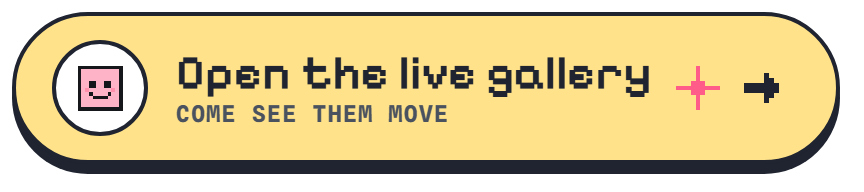
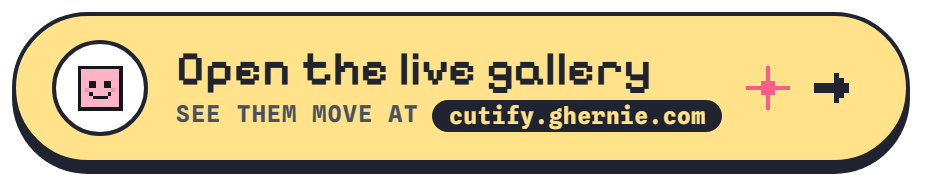
A one-card Features section after Quickstart, and the gallery address on the button and in Quickstart

diff --git a/tools/features.html b/tools/features.html
@@ -1,0 +1,69 @@
+<!doctype html>
+<html lang="en">
+<head>
+<meta charset="utf-8">
+<title>Features card</title>
+<link rel="stylesheet" href="https://fonts.googleapis.com/css2?family=Pixelify+Sans:wght@600&family=Atkinson+Hyperlegible:wght@400;700&family=Spline+Sans+Mono:wght@700&display=swap">
+<style>
+/* Rendered to docs/features.png by make_button.mjs. Six feature stickers on graph paper, then the AI tells the skill skips. */
+:root { --ink: #1f2430; --soft: #4a5260; --paper: #fbf7ee; --rule: #ece3cf; --accent: #ff5c8a; }
+html, body { margin: 0; background: transparent; }
+#shot { display: inline-block; padding: 8px 14px 18px 8px; }
+.board { width: 940px; box-sizing: border-box; padding: 26px 28px 28px; border: 2px solid var(--ink); border-radius: 24px; color: var(--ink); box-shadow: 0 6px 0 var(--ink);
+  background-color: var(--paper); background-image: linear-gradient(var(--rule) 1px, transparent 1px), linear-gradient(90deg, var(--rule) 1px, transparent 1px); background-size: 24px 24px; }
+.kicker { display: flex; align-items: center; gap: 10px; margin: 0 0 18px; font: 700 13px/1 'Spline Sans Mono', monospace; letter-spacing: .1em; text-transform: uppercase; color: var(--soft); }
+.kicker b { padding: 6px 10px 5px; border: 2px solid var(--ink); border-radius: 999px; background: #fff; color: var(--ink); }
+.grid { display: grid; grid-template-columns: repeat(3, 1fr); gap: 18px 16px; }
+.tile { display: grid; grid-template-columns: 52px 1fr; gap: 12px; align-items: center; padding: 14px 16px; border: 2px solid var(--ink); border-radius: 18px; background: var(--c); box-shadow: 0 4px 0 var(--ink); transform: rotate(var(--r)); }
+.ico { width: 52px; height: 52px; display: grid; place-items: center; border: 2px solid var(--ink); border-radius: 50%; background: #fff; }
+.tile h3 { margin: 0 0 3px; font: 600 21px/1.05 'Pixelify Sans', sans-serif; }
+.tile p { margin: 0; font: 400 15px/1.3 'Atkinson Hyperlegible', sans-serif; color: #2b3140; }
+.tells { display: grid; grid-template-columns: auto 1fr; gap: 18px; align-items: center; margin-top: 24px; padding: 16px 20px 18px; border-radius: 18px; background: var(--ink); color: var(--paper); }
+.stamp { display: grid; justify-items: center; gap: 6px; padding: 10px 14px 9px; border: 2px dashed var(--accent); border-radius: 14px; transform: rotate(-4deg); }
+.stamp span { font: 600 19px/1 'Pixelify Sans', sans-serif; color: #ffb3c7; white-space: nowrap; }
+.tells h3 { margin: 0 0 10px; font: 700 16px/1.2 'Atkinson Hyperlegible', sans-serif; }
+.pills { display: flex; flex-wrap: wrap; gap: 8px; }
+.pill { padding: 6px 12px 5px; border-radius: 999px; background: #353c50; color: #eef0f5; font: 700 13px/1 'Spline Sans Mono', monospace; text-decoration: line-through; text-decoration-color: var(--accent); text-decoration-thickness: 2px; }
+</style>
+</head>
+<body>
+<div id="shot"><div class="board">
+  <p class="kicker"><b>cutify-ui</b> what Claude gets</p>
+  <div class="grid">
+    <div class="tile" style="--c:#ffe28a;--r:-1deg"><span class="ico" data-icon="face"></span><div><h3>A pixel cast</h3><p>Characters cast from your brief</p></div></div>
+    <div class="tile" style="--c:#bfe3ff;--r:.8deg"><span class="ico" data-icon="steps"></span><div><h3>Story stages</h3><p>Numbered steps through the product</p></div></div>
+    <div class="tile" style="--c:#ffb3c7;--r:-.6deg"><span class="ico" data-icon="route"></span><div><h3>Motion with meaning</h3><p>Routes and flows that show the work</p></div></div>
+    <div class="tile" style="--c:#b9f0d6;--r:.7deg"><span class="ico" data-icon="swatch"></span><div><h3>Six themes</h3><p>Glass to Toy Box, or your own</p></div></div>
+    <div class="tile" style="--c:#d9ccff;--r:-.8deg"><span class="ico" data-icon="code"></span><div><h3>React or HTML</h3><p>React 19, Next.js or plain HTML</p></div></div>
+    <div class="tile" style="--c:#ffd2b0;--r:.9deg"><span class="ico" data-icon="check"></span><div><h3>Checks its work</h3><p>Lint and screenshots before you see it</p></div></div>
+  </div>
+  <div class="tells">
+    <div class="stamp"><span data-icon="no"></span><span>Not AI-made</span></div>
+    <div><h3>The skill names the usual tells, and Claude skips them</h3>
+      <div class="pills"><span class="pill">purple gradients</span><span class="pill">emoji as icons</span><span class="pill">centred hero + 3 boxes</span><span class="pill">Inter headlines</span><span class="pill">soft shadows everywhere</span><span class="pill">lorem ipsum</span></div>
+    </div>
+  </div>
+</div></div>
+<script>
+// pixel icons: grids are one character per pixel ('.' is empty), dots are [x, y, colour] lists on a w x h canvas
+const P = { k: "#1f2430", p: "#ff8fab", y: "#ffd23f", b: "#5aa9e6", g: "#2fa878", l: "#7c5cff", o: "#ff9b54", r: "#ff5c8a" };
+function fromDots(w, h, dots) { const g = Array.from({ length: h }, () => Array(w).fill(".")); dots.forEach(([x, y, c]) => (g[y][x] = c)); return g.map((r) => r.join("")); }
+const ICONS = {
+  face:   ["..kkkkkk..", ".kppppppk.", "kppppppppk", "kppkppkppk", "kppkppkppk", "krpppppprk", "kpppkkpppk", ".kppppppk.", "..kkkkkk.."],
+  steps:  ["......bb", "......bb", "....bbbb", "....bbbb", "..bbbbbb", "..bbbbbb", "bbbbbbbb", "kkkkkkkk"],
+  route:  fromDots(10, 10, [[8,0,"k"],[8,1,"k"],[8,2,"k"],[8,3,"k"],[8,4,"k"],[9,0,"r"],[9,1,"r"],[7,4,"b"],[6,5,"b"],[4,6,"b"],[3,7,"b"],[0,8,"p"],[1,8,"p"],[0,9,"p"],[1,9,"p"]]),
+  swatch: ["yyy.ggg", "yyy.ggg", "yyy.ggg", ".......", "lll.ooo", "lll.ooo", "lll.ooo"],
+  code:   fromDots(13, 7, [[3,0],[2,1],[1,2],[0,3],[1,4],[2,5],[3,6],[7,0],[7,1],[6,2],[6,3],[5,4],[5,5],[4,6],[9,0],[10,1],[11,2],[12,3],[11,4],[10,5],[9,6]].map(([x, y]) => [x, y, "l"])),
+  check:  ["kkkkkkkk", "k......k", "k.....gk", "k....g.k", "kg..g..k", "k.gg...k", "k......k", "kkkkkkkk"],
+  no:     ["..rrrr..", ".r....r.", "r....rrr", "r...r..r", "r..r...r", "rrr....r", ".r....r.", "..rrrr.."],
+};
+function svg(name, size) {
+  const g = ICONS[name], w = g[0].length, h = g.length, s = size / Math.max(w, h);
+  let out = `<svg viewBox="0 0 ${w} ${h}" width="${Math.round(w * s)}" height="${Math.round(h * s)}" shape-rendering="crispEdges" aria-hidden="true">`;
+  g.forEach((row, y) => [...row].forEach((ch, x) => { if (P[ch]) out += `<rect x="${x}" y="${y}" width="1" height="1" fill="${P[ch]}"/>`; }));
+  return out + "</svg>";
+}
+document.querySelectorAll("[data-icon]").forEach((el) => { el.innerHTML = svg(el.dataset.icon, el.classList.contains("ico") ? 30 : 34); });
+</script>
+</body>
+</html>

diff --git a/tools/gallery-button.html b/tools/gallery-button.html
@@ -16,14 +16,14 @@ html, body { margin: 0; background: transparent; }
 .label { font: 600 24px/1.05 'Pixelify Sans', sans-serif; white-space: nowrap; }
 .spark { flex: none; margin: 0 -4px 0 -2px; }
 .sub { display: flex; align-items: center; gap: 7px; font: 700 11.5px/1 'Spline Sans Mono', monospace; letter-spacing: .06em; text-transform: uppercase; color: var(--soft); white-space: nowrap; }
-.tag { padding: 3px 7px 2px; border-radius: 999px; background: #635bff; color: #fff; }
+.tag { padding: 3px 8px 2px; border-radius: 999px; background: #1f2430; color: #ffe28a; text-transform: none; letter-spacing: .02em; }
 .arrow { flex: none; margin-left: 2px; }
 </style>
 </head>
 <body>
 <div id="shot"><span class="btn">
   <span class="heart"><svg viewBox="0 0 16 16" width="30" height="30" shape-rendering="crispEdges" aria-hidden="true"><rect x="2" y="2" width="12" height="12" fill="#16171a"/><rect x="3" y="3" width="10" height="10" fill="#ffb3c7"/><rect x="5" y="6" width="2" height="2" fill="#16171a"/><rect x="9" y="6" width="2" height="2" fill="#16171a"/><rect x="4" y="8" width="1" height="1" fill="#ff8fab"/><rect x="11" y="8" width="1" height="1" fill="#ff8fab"/><rect x="5" y="9" width="1" height="1" fill="#16171a"/><rect x="10" y="9" width="1" height="1" fill="#16171a"/><rect x="6" y="10" width="4" height="1" fill="#16171a"/></svg></span>
-  <span class="text"><span class="label">Open the live gallery</span><span class="sub">Come see them move</span></span>
+  <span class="text"><span class="label">Open the live gallery</span><span class="sub">See them move at <span class="tag">cutify.ghernie.com</span></span></span>
   <svg class="spark" viewBox="0 0 9 9" width="22" height="22" shape-rendering="crispEdges" aria-hidden="true"><path fill="#ff5c8a" d="M4 0h1v3H4zM4 6h1v3H4zM0 4h3v1H0zM6 4h3v1H6zM3 3h3v3H3z"/></svg>
   <svg class="arrow" viewBox="0 0 8 8" width="20" height="20" shape-rendering="crispEdges" aria-hidden="true"><path fill="#1f2430" d="M4 1h1v6H4zM5 2h1v4H5zM6 3h1v2H6zM0 3h4v2H0z"/></svg>
 </span></div>

diff --git a/README.md b/README.md
@@ -17,7 +17,7 @@
 
 cutify-ui is an open-source [Claude skill](https://docs.claude.com/en/docs/agents-and-tools/agent-skills/overview). Ask Claude for a landing page, a product demo or a portfolio, and the skill gives it six themes, ready components and animation patterns to build from. It works in Claude Code, Claude.ai and the Claude API, and builds in React and Next.js or in plain HTML, CSS and SVG.
 
-<p align="center"><a href="https://cutify.ghernie.com/"><img src="docs/gallery-button.png" alt="Open the live gallery: come see the examples move" height="84"></a></p>
+<p align="center"><a href="https://cutify.ghernie.com/"><img src="docs/gallery-button.png" alt="Open the live gallery: see them move at cutify.ghernie.com" height="84"></a></p>
 
 <p align="center"><a href="https://donate.stripe.com/00w4gr2TU7wC52iaXf18c01"><img src="docs/support-button.png" alt="Support cutify-ui: donate with Stripe" height="68"></a>&nbsp;&nbsp;<a href="https://ko-fi.com/K6P629UOFQ"><img src="docs/kofi-button.png" alt="Support cutify-ui: tip on Ko-fi" height="68"></a></p>
 
@@ -25,7 +25,7 @@ cutify-ui is an open-source [Claude skill](https://docs.claude.com/en/docs/agent
 
 <table>
 <tr><th align="left" width="25%">🚀 Start<br><img src="docs/spacer.png" width="240" height="1" alt=""></th><th align="left" width="25%">👀 Look<br><img src="docs/spacer.png" width="240" height="1" alt=""></th><th align="left" width="25%">🔧 Build<br><img src="docs/spacer.png" width="240" height="1" alt=""></th><th align="left" width="25%">📄 About<br><img src="docs/spacer.png" width="240" height="1" alt=""></th></tr>
-<tr><td valign="top"><a href="#%EF%B8%8F-install">Install</a><br><a href="#quickstart">Quickstart</a></td><td valign="top"><a href="#%EF%B8%8F-gallery">Gallery</a><br><a href="#-why-it-doesnt-look-ai-made">Why it doesn't look AI-made</a></td><td valign="top"><a href="#-whats-inside">What's inside</a><br><a href="#-testing-and-validation">Testing and validation</a></td><td valign="top"><a href="#%EF%B8%8F-privacy-and-limits">Privacy and limits</a><br><a href="#-faq">FAQ</a><br><a href="#-contributing">Contributing</a><br><a href="#-support">Support</a><br><a href="#-license">License</a></td></tr>
+<tr><td valign="top"><a href="#%EF%B8%8F-install">Install</a><br><a href="#quickstart">Quickstart</a></td><td valign="top"><a href="#%EF%B8%8F-gallery">Gallery</a><br><a href="#-features">Features</a></td><td valign="top"><a href="#-whats-inside">What's inside</a><br><a href="#-testing-and-validation">Testing and validation</a></td><td valign="top"><a href="#%EF%B8%8F-privacy-and-limits">Privacy and limits</a><br><a href="#-faq">FAQ</a><br><a href="#-contributing">Contributing</a><br><a href="#-support">Support</a><br><a href="#-license">License</a></td></tr>
 </table>
 
 ## 🛠 Install
@@ -55,6 +55,9 @@ That's all. Ask for a cute landing page and your agent uses the skill on its own
 
 ### Quickstart
 
+> [!TIP]
+> **See all the example pages live at [cutify.ghernie.com](https://cutify.ghernie.com/)**, each with the prompt that made it, ready to copy.
+
 Ask in plain words, for example:
 
 ```text
@@ -70,6 +73,12 @@ Make a cute landing page for my study app with three AI tutors.
 Set the effort with `/effort` in Claude Code. Our test pages used the default effort, and Opus took about 5 to 7 minutes a page. High effort gives Claude more room to plan the stages and check its own page, so it's worth the extra time on bigger pages.
 
 Have Python 3 installed so Claude can check its page with `scripts/lint_page.py`. If the skill doesn't load, start your prompt with "Use the cutify-ui skill." Every example in the [Gallery](#%EF%B8%8F-gallery) has its prompt ready to copy.
+
+## ✨ Features
+
+<p align="center"><img src="docs/features.png" width="900" alt="What Claude gets with cutify-ui: a pixel cast of characters from your brief, numbered story stages, motion that shows the work, six themes from Glass to Toy Box or your own, React 19, Next.js or plain HTML, and a linter plus screenshots before you see the page. It also skips the usual AI tells: purple gradients, emoji as icons, a centred hero over three boxes, Inter headlines, soft shadows everywhere and lorem ipsum."></p>
+
+The six themes are Glass, Apron, Picnic, Riso Club, Lantern Night and Toy Box. Glass and Apron come from [itsa10but](https://ghernie.com/projects/itsa10but) and [SkyQueue](https://skyqueue.ghernie.com), and the [inspiration library](docs/INSPIRATION.md) credits the sources behind the rest.
 
 ## 🖼 Gallery
 
@@ -175,16 +184,6 @@ A personal portfolio site for "Sam Sample" (a made-up interaction design student
 
 </details>
 <!-- GALLERY:END -->
-
-## 🙅 Why it doesn't look AI-made
-
-Pages that Claude designs on its own often look alike, because it falls back on the safest choice for every font, colour and layout. cutify-ui makes those choices before Claude writes any CSS:
-
-- Each of the six themes (Glass, Apron, Picnic, Riso Club, Lantern Night and Toy Box) fixes exact fonts, hex colours and one kind of depth, so Claude never has to guess at "modern". Glass and Apron come from [itsa10but](https://ghernie.com/projects/itsa10but) and [SkyQueue](https://skyqueue.ghernie.com), and the [inspiration library](docs/INSPIRATION.md) lists the sources behind the other four.
-- The skill names the usual tells and tells Claude to avoid them: purple-to-blue gradients, soft-shadowed rounded cards everywhere, emoji as icons, a centred hero over three feature boxes, Inter as the headline font and lorem ipsum.
-- Claude writes the real copy from your brief before the layout, and labels anything made up as "sample".
-- If your project has a `taste.md` file of things you like and dislike, Claude reads it first and offers to add your reactions to it.
-- Before showing you a page, Claude checks the draft against your brief and the list of tells, then screenshots it at 1440px and 390px.
 
 ## 📁 What's inside
 
@@ -351,7 +350,7 @@ Both. It ships typed React 19 components that work in Next.js, plain HTML, CSS a
 <details>
 <summary><b>How do I stop Claude's UI from looking AI-generated?</b></summary>
 
-The skill lists the usual signs of an AI-made page, such as purple gradients, emoji icons and a centred hero over three feature boxes, and tells Claude to avoid them. It also gives Claude a cast of characters, numbered stages and a theme to build from, so each page has its own look. [Why it doesn't look AI-made](#-why-it-doesnt-look-ai-made) explains each rule.
+The skill lists the usual signs of an AI-made page, such as purple gradients, emoji icons and a centred hero over three feature boxes, and tells Claude to avoid them. It also gives Claude a cast of characters, numbered stages and a theme to build from, so each page has its own look. The [Features](#-features) card lists them.
 
 </details>
 
